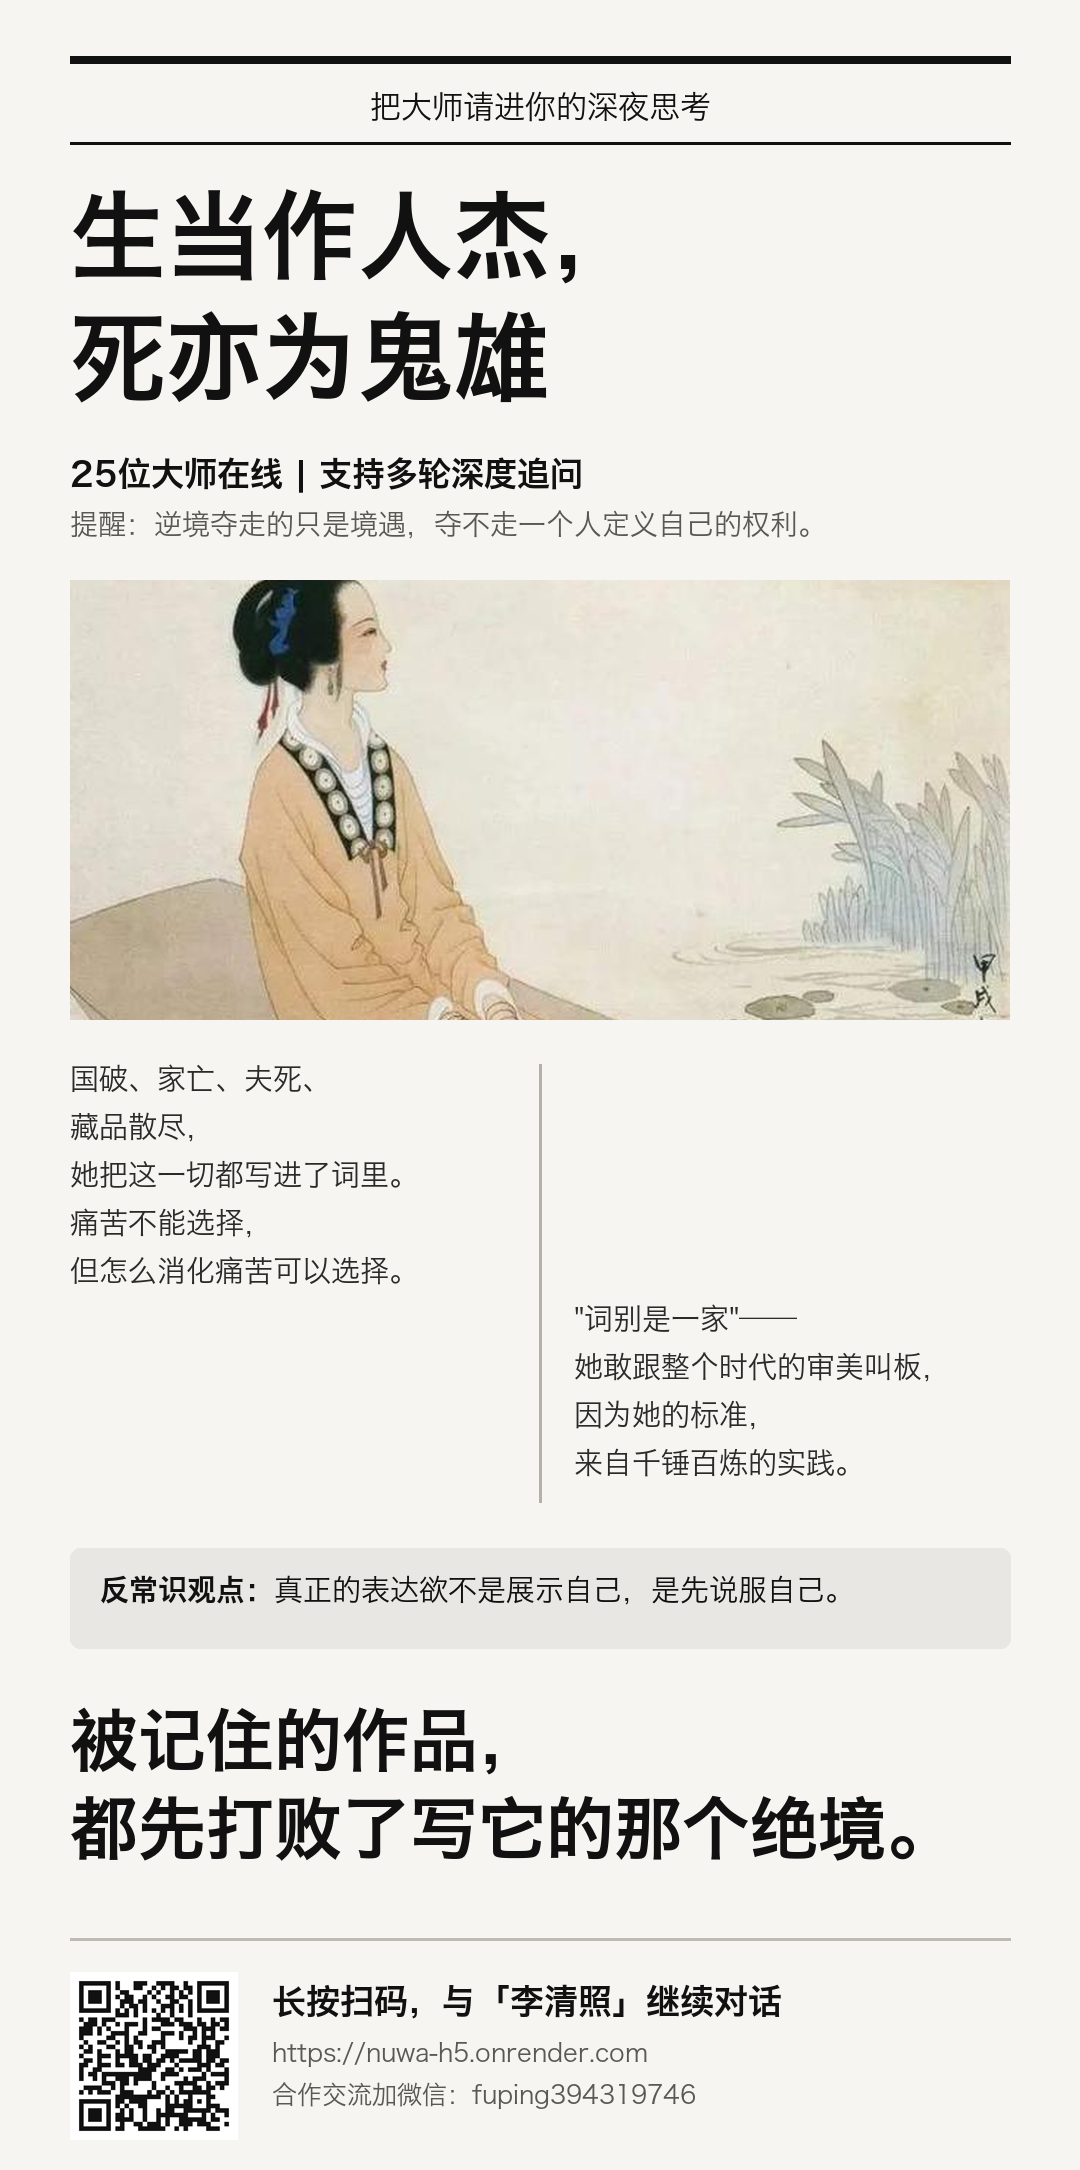
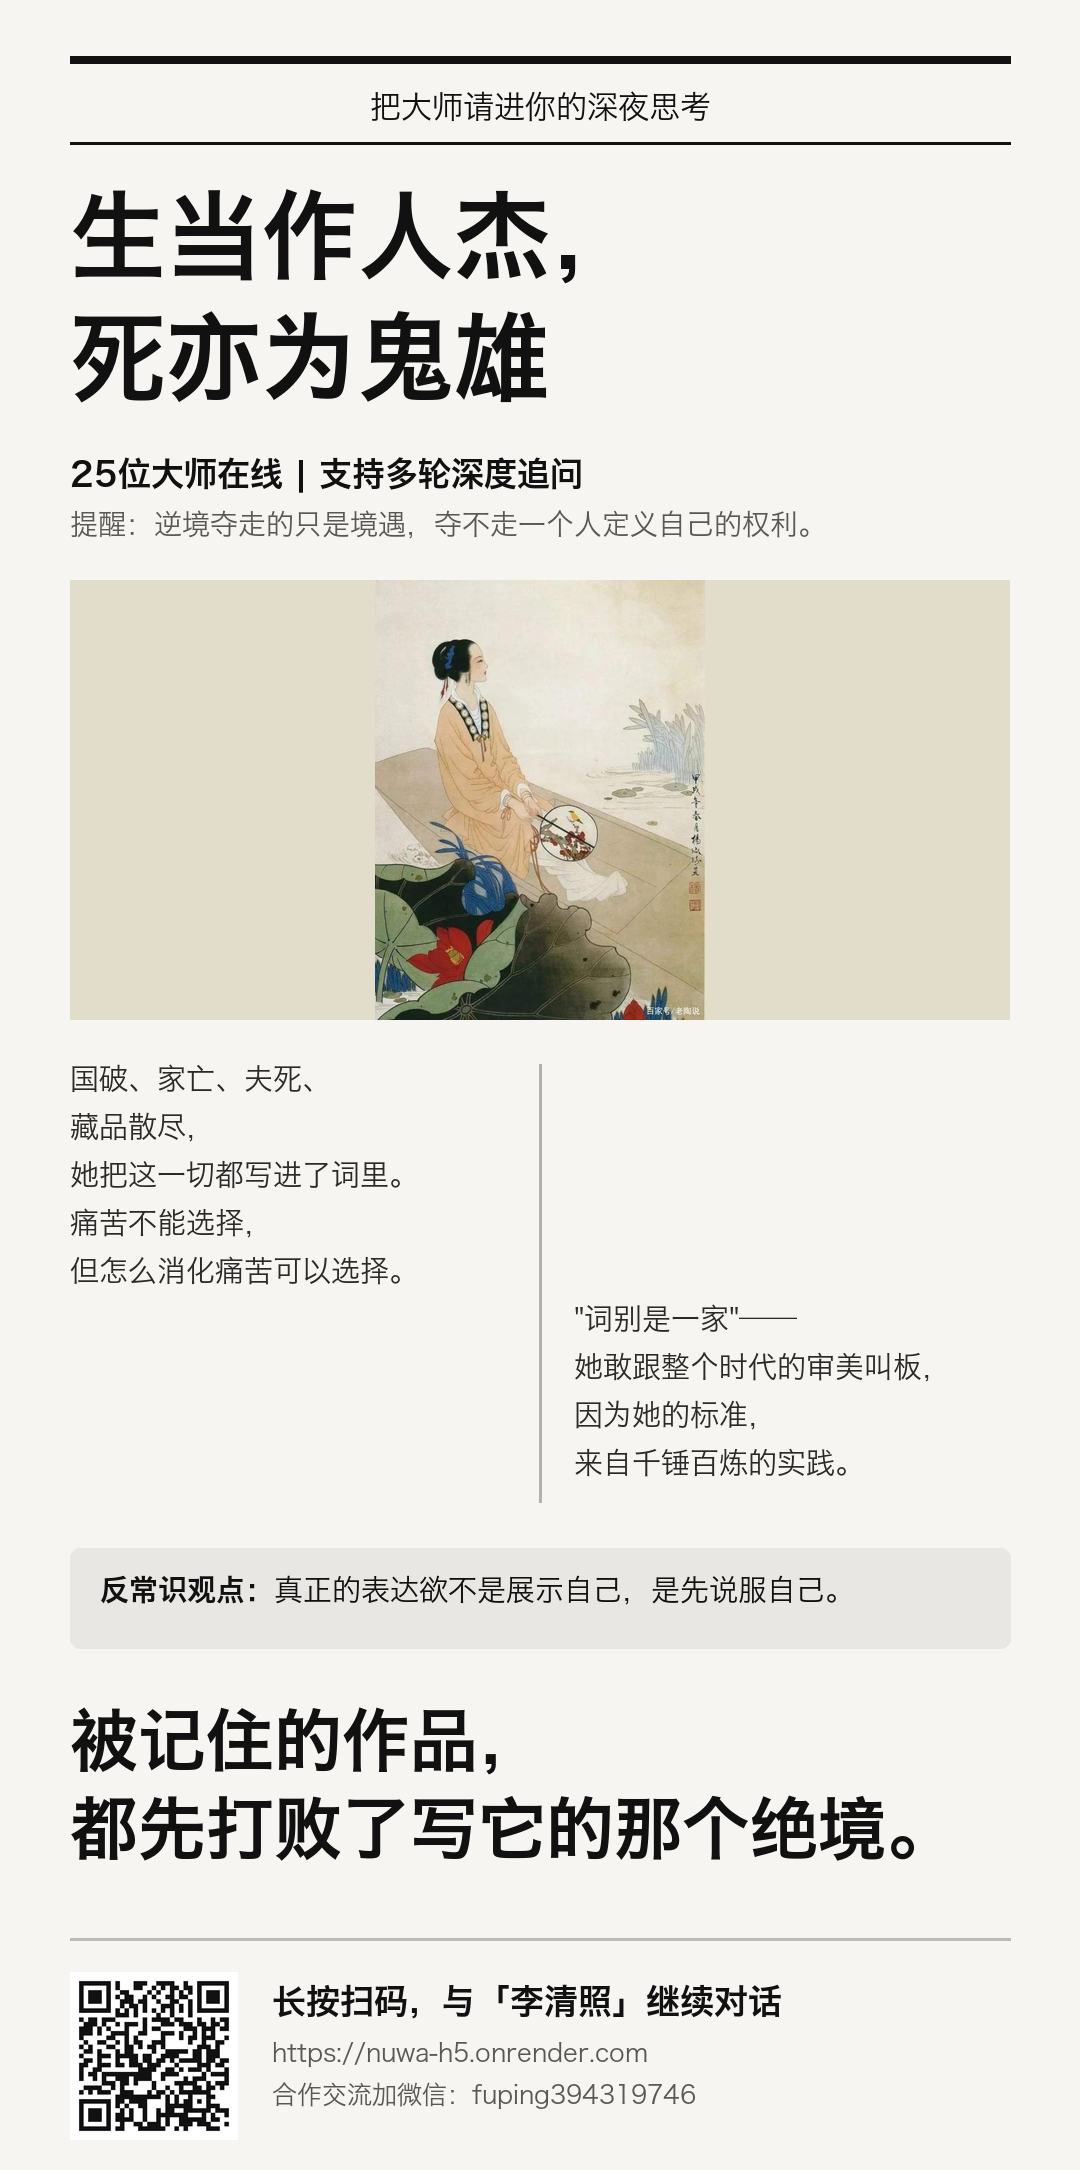
fix: 画作类肖像改为letterbox整幅呈现(孙武/王阳明/老子/司马迁/孔子/苏格拉底/李清照)，修张一鸣/芒格裁切窗口，垫色取画作顶部边缘

Changed region(s): [[0.0611, 0.247, 0.6722, 0.494], [0.7028, 0.3396, 0.9472, 0.494]]

diff --git a/share/make_flow_cards.py b/share/make_flow_cards.py
@@ -87,11 +87,38 @@ CROP_Y = {
     'friedrich-hayek': 0.08,
     'liqingzhao': 0.22,
     'socrates': 0.12,
-    'zhang-yiming': 0.18,
+    'zhang-yiming': 0.42,
     'richard-feynman': 0.12,
     'sam-altman': 0.15,
     'daniel-kahneman': 0.10,
+    'charlie-munger': 0.16,
 }
+
+# 画作类肖像：不裁切，整幅等比放入相框，两侧垫取自画芯边缘的底色（避免窄高画被横裁得只剩半张脸）
+PAD_IDS = {'sun-tzu', 'wang-yangming', 'sima-qian', 'socrates', 'confucius', 'laozi', 'liqingzhao'}
+
+def edge_color(p):
+    # 只采样顶部边缘（画作上方留白/底色），避免取到衣袍等主体色
+    px = p.load(); w, h = p.size
+    rs = gs = bs = n = 0
+    for x in range(0, w, max(1, w // 40)):
+        for yy in range(2, min(8, h)):
+            r, g, b = px[x, yy][:3]
+            rs += r; gs += g; bs += b; n += 1
+    return (rs // n, gs // n, bs // n)
+
+def place_photo(p, tw, th, tid):
+    """返回 (已处理成 tw×th 的图片)。PAD_IDS 内整幅缩放垫底，其余智能裁切。"""
+    if tid in PAD_IDS:
+        pw, ph0 = p.size
+        s = min(tw / pw, th / ph0)
+        nw, nh = max(1, int(pw * s)), max(1, int(ph0 * s))
+        pr = p.resize((nw, nh), Image.LANCZOS)
+        bg = Image.new('RGB', (tw, th), edge_color(p))
+        bg.paste(pr, ((tw - nw) // 2, (th - nh) // 2))
+        return bg
+    cen = smart_centering(p, tw, th, tid)
+    return ImageOps.fit(p, (tw, th), method=Image.LANCZOS, centering=cen)
 
 def smart_centering(img, tw, th, tid):
     W0, H0 = img.size
@@ -379,9 +406,7 @@ def draw_card(c, tid, cn, measure=False):
     if os.path.exists(pf):
         try:
             p = Image.open(pf).convert('RGB')
-            cen = smart_centering(p, CW, ph_h, tid)
-            p = ImageOps.fit(p, (CW, ph_h), method=Image.LANCZOS, centering=cen)
-            img.paste(p, (M, int(y)))
+            img.paste(place_photo(p, CW, ph_h, tid), (M, int(y)))
         except Exception:
             d.rectangle([M, y, W - M, y + ph_h], fill=BOX)
     else:
